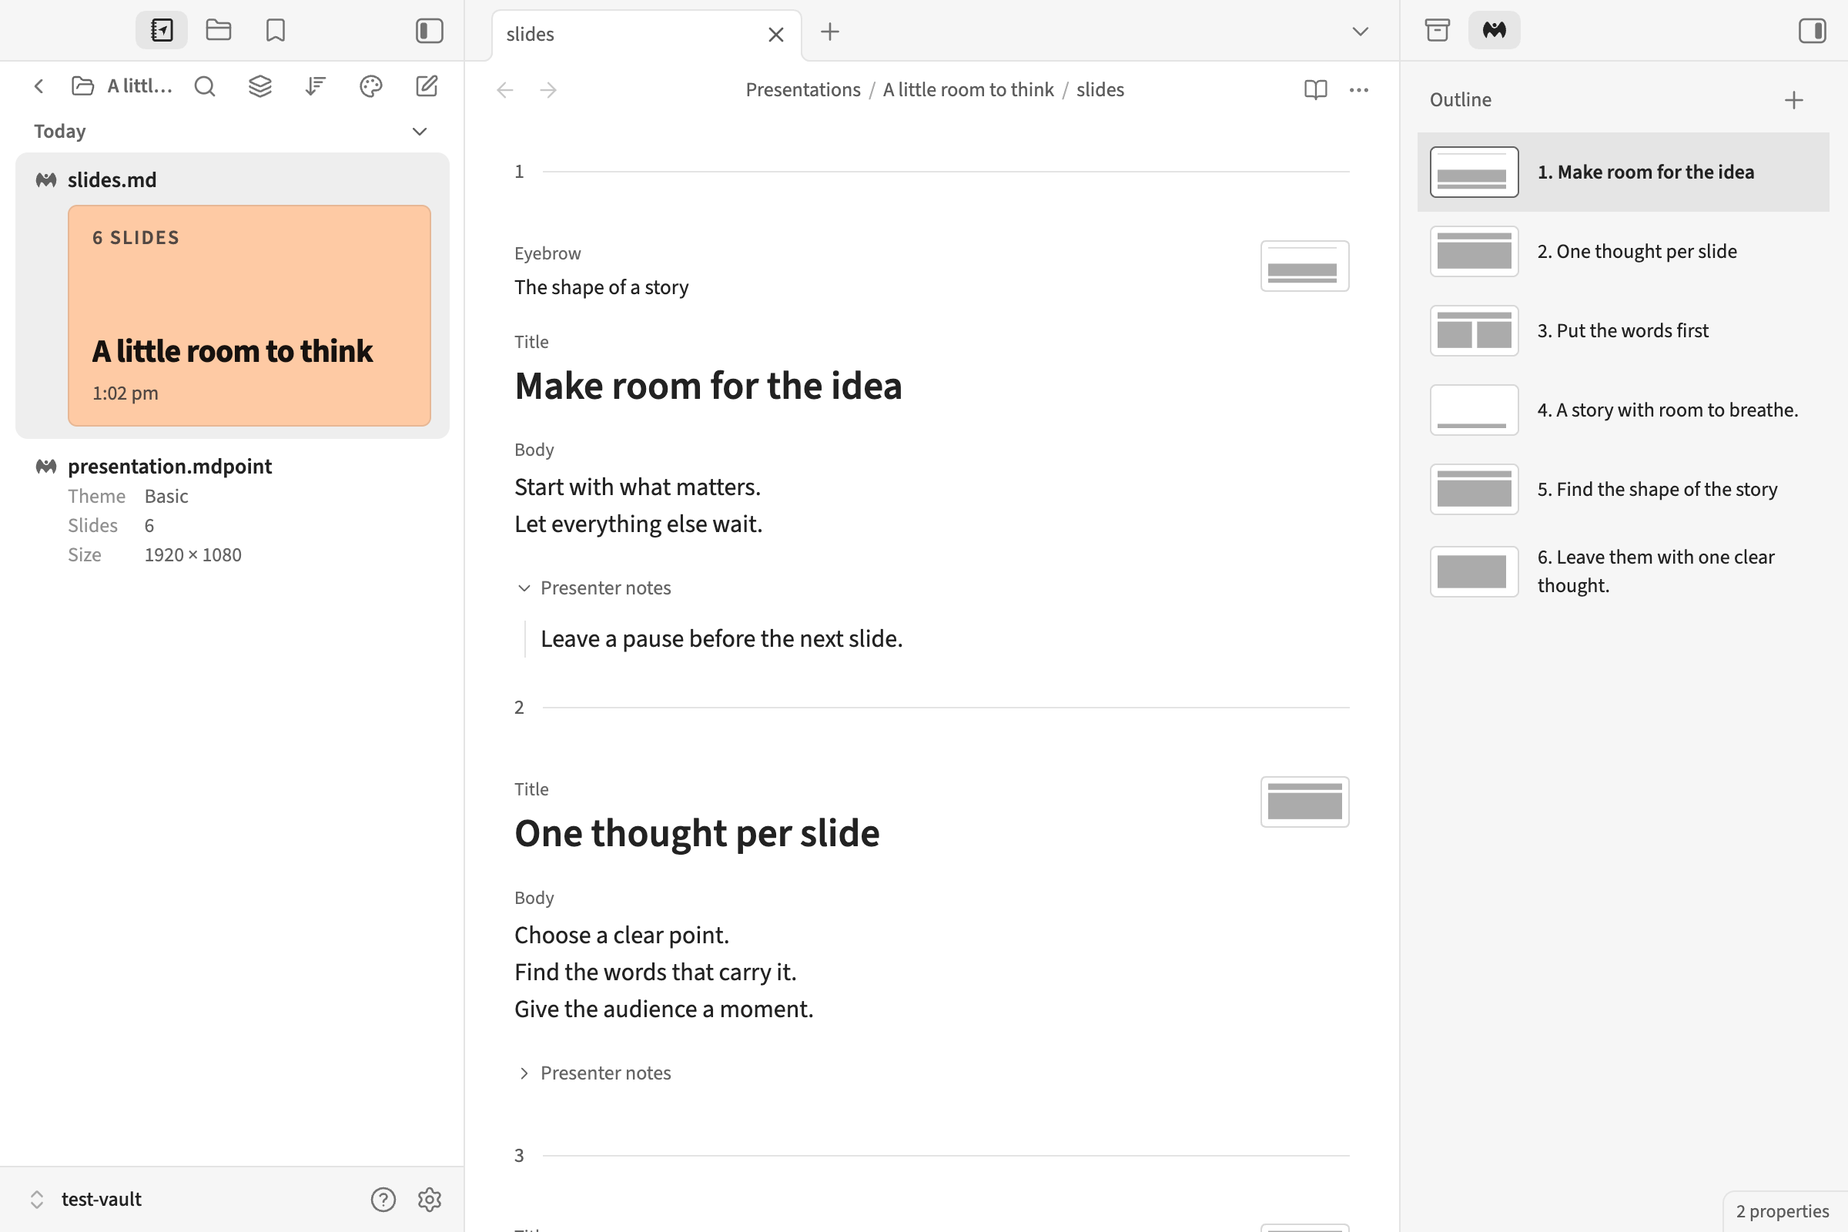
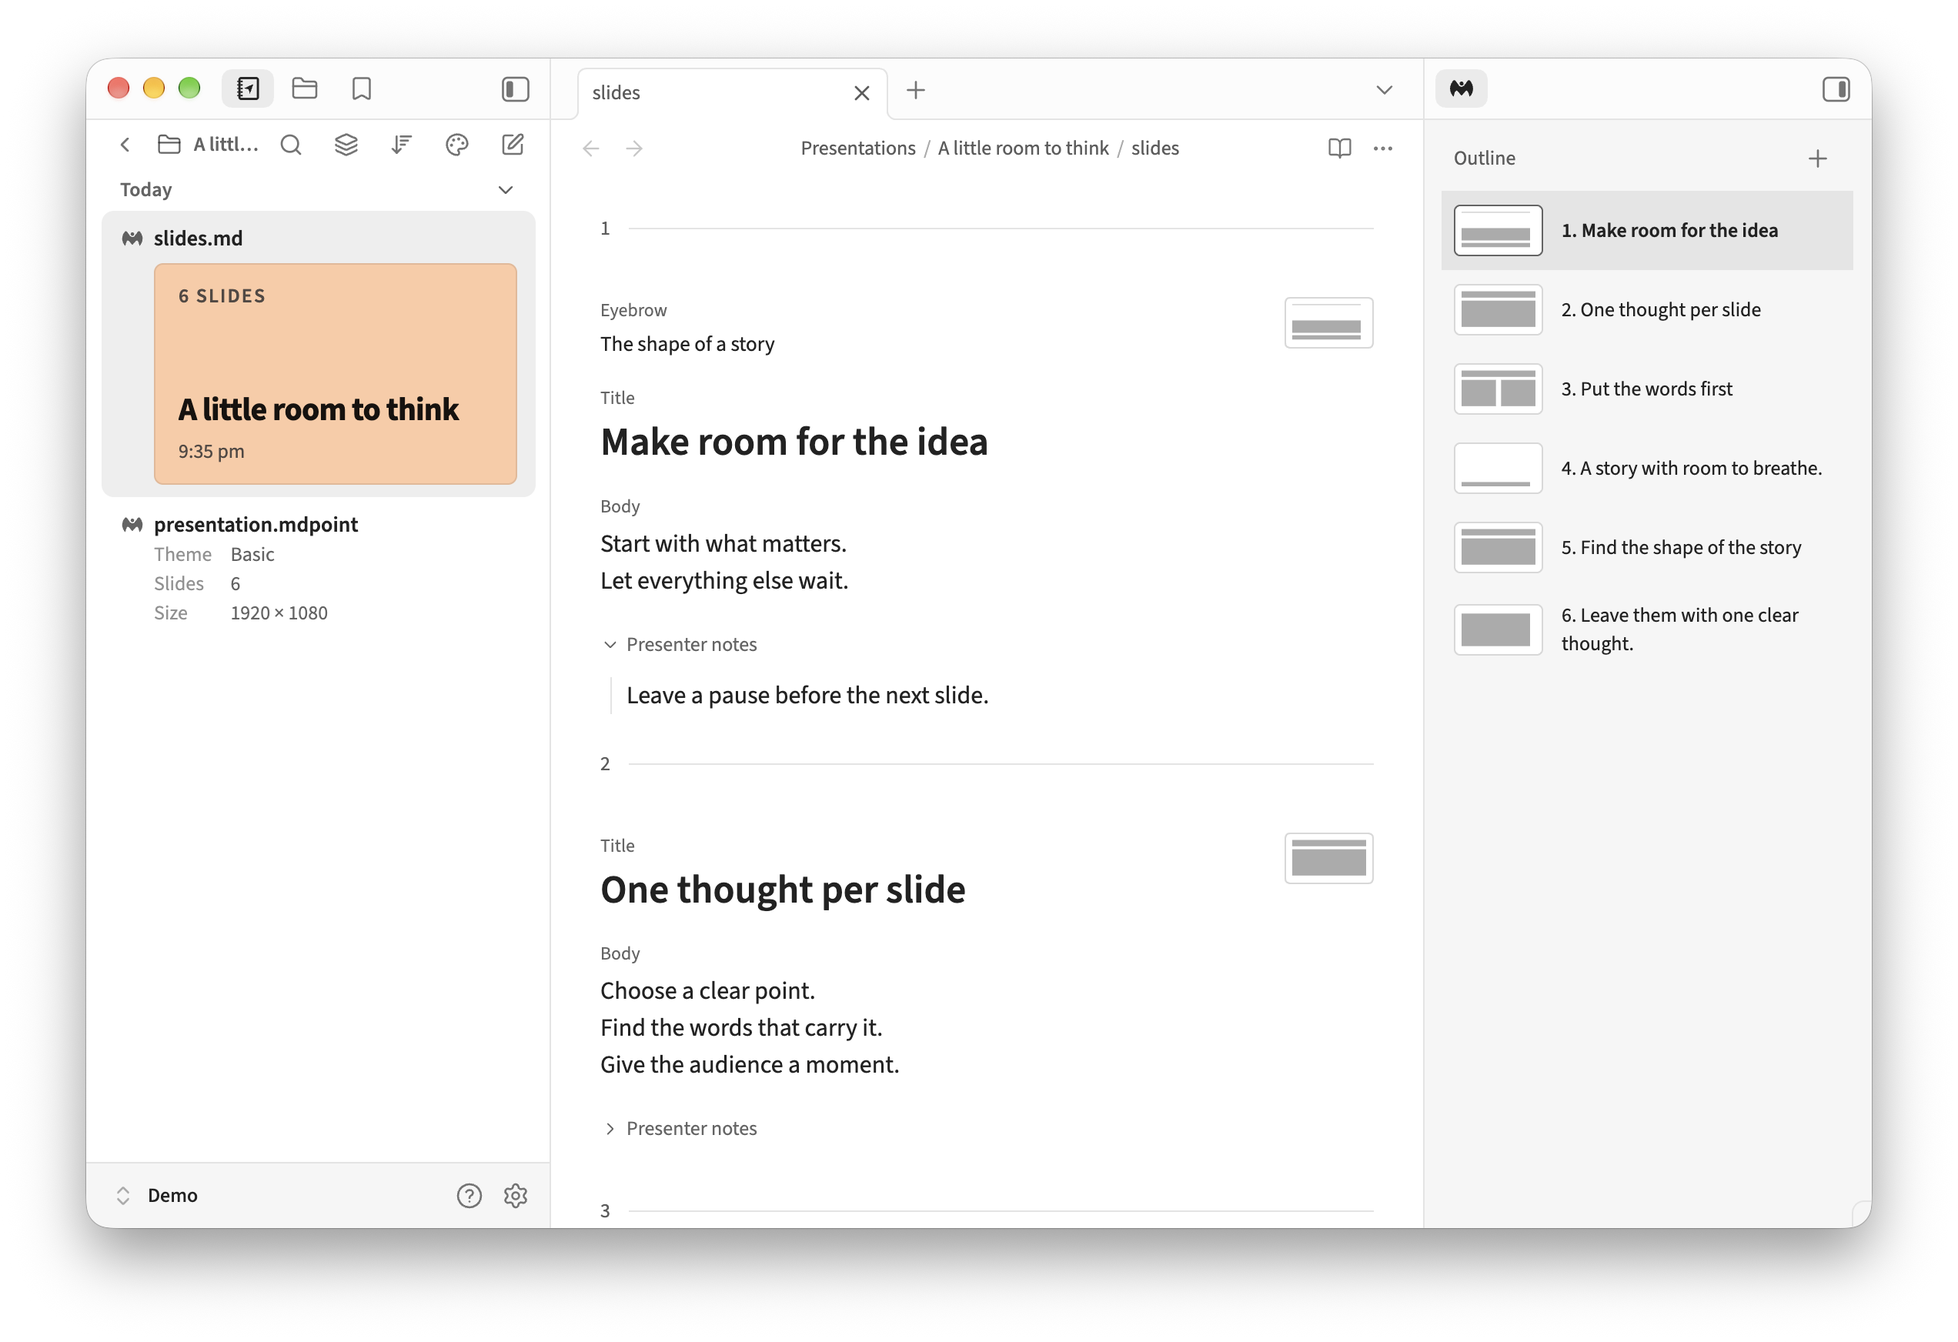
Rewrite the README and retake the screenshots as framed macOS windows
The README opens with what MarkdownPoint and its Obsidian plugin do together, then walks through installing, writing, the outline, new slides, the desktop app, settings and languages in numbered sections. Its images load from absolute URLs, so they show wherever the README is rendered. The six screenshots are native window captures from a demo vault, with the macOS frame and shadow.

diff --git a/README.md b/README.md
@@ -1,128 +1,104 @@
-# MarkdownPoint for Obsidian
+# ![MarkdownPoint for Obsidian](https://raw.githubusercontent.com/markdownpoint/markdownpoint-obsidian/main/images/continuous-draft-light.png)
 
-Write your slides where you keep your ideas.
+MarkdownPoint and its companion plugin for Obsidian are the best combination for modern presentations. Build the structure and write every word in Obsidian, then switch to the [MarkdownPoint](https://markdownpoint.com) desktop app for design, 3D, animation, rendering and much more.
 
-MarkdownPoint shows a presentation in Obsidian as one continuous draft. Write the words and presenter notes, and arrange the slides in an outline. Open the same presentation in [MarkdownPoint](https://markdownpoint.com) to design and present it.
+Your whole talk becomes **one continuous draft**: titles, text and presenter notes flow down the page like a note, with an outline of every slide beside it. Drag slides into a new order, add a slide in one keystroke, and copy slides between presentations. There’s nothing to import or export between the two: both apps edit the same files in your vault.
 
-![A continuous presentation draft with presenter notes and the slide outline](images/continuous-draft-light.png)
+Continuous draft. Drag-and-drop outline. Presenter notes. Layout shortcuts. 21 languages.
 
-Each presentation is a folder in your vault. Both apps edit the same files.
+<br/>
 
-The screenshots use the Minimal theme and Notebook Navigator. Both are optional.
+## 1 Installation
 
-## Install
+1. **Install Obsidian 1.13 or newer** on your desktop from [obsidian.md](https://obsidian.md/).
+2. **Turn on community plugins** under **Settings → Community plugins**.
+3. **Install MarkdownPoint**: select **Browse**, search for **MarkdownPoint**, then select **Install** and **Enable**.
+4. **Get the desktop app** from [markdownpoint.com](https://markdownpoint.com) to design, present and export your slides.
 
-MarkdownPoint requires **Obsidian 1.13 or newer** on desktop. You design, present and export in the MarkdownPoint desktop app.
+<br/>
 
-1. Open **Settings → Community plugins**. If community plugins are turned off, turn them on.
-2. Select **Browse** and search for **MarkdownPoint**.
-3. Select **Install**, then **Enable**.
+## 2 Your first presentation
 
-## Start a presentation
+Open the command palette and run **MarkdownPoint: New presentation**. Enter a name, choose a folder, and pick **Basic** or a theme from another presentation in your vault. Select **Create**, and the presentation opens with one empty slide and the cursor ready in its first text area.
 
-Open the command palette and run **MarkdownPoint: New presentation**.
-
-1. Enter a name and choose the folder to put the presentation in.
-2. Under **Theme**, choose **Basic** or a theme from another presentation in your vault.
-3. Select **Create** and start writing.
-
-The presentation opens in the current tab with one empty slide. The cursor starts in its first text area. The theme supplies the layouts. You write what each slide says.
-
-### Open an existing presentation
-
-Put the whole presentation folder in your vault, then open its `slides.md`. Keep `presentation.mdpoint`, `themes/` and any media folders beside it.
+Already have a presentation? Put its whole folder in your vault and open `slides.md`:
 
 ```text
 My presentation/
-├── slides.md
-├── presentation.mdpoint
+├── slides.md              your writing, notes and slide order
+├── presentation.mdpoint   the presentation data
 ├── themes/
 └── media/
 ```
 
-`slides.md` holds the writing, notes and slide order. `presentation.mdpoint` holds the presentation data. Move and sync the folder as a whole.
+Move and sync the folder as a whole, and both apps keep working on it.
 
-## Write without styling
+<br/>
 
-Each slide starts with a numbered divider. Its text areas follow in writing order. Each one takes its name from the layout: Title, Body, Eyebrow or a custom name.
+## 3 Write the whole talk in one draft
 
-An empty area shows a faint placeholder with its name. Click it to write. Once the area has text, its name appears as a small label above it. Placeholders and labels appear only in the editor and are never saved.
+Every slide starts with a numbered divider, followed by its text areas in writing order. Each area takes its name from the layout: Title, Body, Eyebrow or a name the theme gives it. An empty area shows its name as a faint placeholder. Start typing and the name moves up as a small label above your words. Placeholders and labels live only in the editor and are never saved.
 
-Write in **Live Preview** to see the continuous draft. Live Preview protects the slide dividers from ordinary edits. Move and delete slides from the outline or the right-click menu. **Source mode** shows the plain Markdown. Everything is editable there, slide dividers included.
+Write in **Live Preview** to see the draft. It protects the slide dividers from stray edits, so you rearrange slides in the outline or from the right-click menu. Switch to **Source mode** whenever you want the plain Markdown, dividers included.
 
-The draft hides the one blank line that separates text areas in `slides.md`. Extra blank lines are part of your text. They stay visible and carry over to MarkdownPoint.
+Blank lines are yours to use. The draft hides the single blank line that separates text areas, and any extra blank lines stay visible and carry over to MarkdownPoint.
 
 ### Presenter notes
 
-Click anywhere on the **Presenter notes** row to expand it. An empty note shows **Notes**. Write reminders, transitions or a full script. Collapse the row again to focus on the slide.
-
-Notes stay with their slide when you move, copy or delete it. Each device remembers which notes are expanded.
+Click the **Presenter notes** row under a slide to open it, and write reminders, transitions or a full script. Notes travel with their slide when you move, copy or delete it, and each device remembers which notes you keep open.
 
 ### Images beside the draft
 
-![An assigned image beside the writing area](images/image-previews-light.png)
+![A slide’s image preview beside the writing area](https://raw.githubusercontent.com/markdownpoint/markdownpoint-obsidian/main/images/image-previews-light.png)
 
-Up to five of a slide’s images appear below its thumbnail in the margin. The background comes first, then images in the layout’s image areas, then any other images on the slide.
+Up to five of a slide’s images appear under its thumbnail in the margin: the background first, then the layout’s image areas, then any other images on the slide. Add and change images in MarkdownPoint. To hide the previews, turn off **Settings → MarkdownPoint → Show images**.
 
-Add and change images in MarkdownPoint. To hide the previews, turn off **Settings → MarkdownPoint → Show images**.
+<br/>
 
-## Arrange slides in the outline
+## 4 Shape the story in the outline
 
-The **Outline** has its own sidebar tab, marked with the MarkdownPoint icon. The tab sits in the right sidebar by default. Obsidian’s own Outline and Notebook Navigator stay where they are.
+The **Outline** has its own sidebar tab, marked with the MarkdownPoint icon, and opens in the right sidebar. Each row shows a slide’s title and a small map of its layout. Section headings divide the list without taking a slide number, and skipped slides show a dash instead of a number.
 
-Each row shows a slide’s title and a small thumbnail of its structure. Filled areas mark where text and media go. MarkdownPoint shows the finished slide.
-
-Section headings divide the outline and don’t take a slide number. Skipped slides stay in the list. They show a dash in place of a number.
-
-### Select and rearrange
-
-- **Click** to select one slide and go to it.
+- **Click** a slide to select it and jump to it.
 - **Cmd-click** on Mac or **Ctrl-click** on Windows and Linux to add or remove a slide.
-- **Shift-click** to select a range.
-- **Shift+Up/Down** to extend the selection with the keyboard.
-- **Cmd/Ctrl+A** to select all slides while the outline has focus.
+- **Shift-click** to select a range, or **Shift+Up/Down** to extend it.
+- **Cmd/Ctrl+A** selects every slide while the outline has focus.
 
-Drag a selected row to move all selected slides. A line shows where they will land. Drop them on a section heading to place them at the start of that section.
-
-To move the selection one row at a time, press **Cmd+Up/Down** on Mac or **Ctrl+Up/Down** on Windows and Linux while the outline has focus. You can undo each move. In the editor, text-editing shortcuts work as usual.
+**Drag** the selection anywhere in the list. A line shows where it lands, and dropping on a section heading puts the slides at the start of that section. Prefer the keyboard? While the outline has focus, **Cmd+Up/Down** on Mac or **Ctrl+Up/Down** on Windows and Linux moves the selection one row at a time.
 
 ### Copy, cut and delete slides
 
-Right-click a slide in the outline or in the editor to choose **Cut slide**, **Copy slide**, **Paste slides** or **Delete slide**. Click a slide’s thumbnail in the editor margin to open the same menu.
+Right-click a slide in the outline or the editor for **Cut slide**, **Copy slide**, **Paste slides** and **Delete slide**. A slide’s thumbnail in the editor margin opens the same menu. In the outline, the menu acts on every selected slide, and **Cmd/Ctrl+C**, **X** and **V** copy, cut and paste whole slides. In the editor they stay ordinary text shortcuts. Pasted slides land below the slide whose menu you opened.
 
-In the outline, the menu acts on every selected slide. In the editor, it acts on the slide you clicked. Pasted slides go below the slide whose menu you opened.
+A copied slide brings its text, notes and presentation data with it. Paste it into another presentation in the same vault that uses the same theme, and its media comes along too. Between different themes or vaults, copy and paste the slides in the MarkdownPoint desktop app.
 
-A copied slide carries its text, notes and presentation data. In the outline, **Cmd/Ctrl+C**, **Cmd/Ctrl+X** and **Cmd/Ctrl+V** copy, cut and paste whole slides. In the editor, they stay ordinary text shortcuts.
+Obsidian’s **Undo** and **Redo** cover slide actions too, also while the outline has focus.
 
-You can paste slides into another presentation in the same vault when both use the same theme and theme artwork. The media the slides use is copied into the destination folder. Between different themes or vaults, copy and paste the slides in the MarkdownPoint desktop app.
+<br/>
 
-Obsidian’s **Undo** and **Redo** cover slide actions too. They also work while the outline has focus.
+## 5 Add a slide in one keystroke
 
-## Add a slide in a keystroke
+![The layout picker with number shortcuts](https://raw.githubusercontent.com/markdownpoint/markdownpoint-obsidian/main/images/layout-picker-light.png)
 
-![The layout picker with filled text areas and assigned number shortcuts](images/layout-picker-light.png)
+Click **+** above the outline or run **MarkdownPoint: New slide**, then choose a layout. The new slide goes below the current one.
 
-Click **+** above the outline or run **MarkdownPoint: New slide**. Choose a layout to insert a slide below the current one.
+Give your favorite layouts a number: right-click a layout in the picker and choose **Shortcut**, then a number from 1 to 9. Next time, open the picker and press that number. The number shows next to the layout’s name, and giving it to another layout moves it there. **None** removes it.
 
-Some layouts start with a number. To give a layout a number:
+<br/>
 
-1. Right-click a layout in the picker.
-2. Choose **Shortcut**, then a number from 1 to 9.
-3. In the picker, press that number to insert the layout.
+## 6 Design and present in MarkdownPoint
 
-The number appears below the layout’s thumbnail, next to its name. Giving the number to another layout moves it there. Choose **None** to remove a layout’s number.
+Run **MarkdownPoint: Open in MarkdownPoint** to save the presentation and open it in the desktop app. That’s where layout, images, 3D, animation and presenting happen. Come back to `slides.md` for another writing pass whenever you like, since both apps work on the same folder.
 
-## Continue in MarkdownPoint
+For the command to reach the app, your computer has to open `.mdpoint` files with MarkdownPoint.
 
-Run **MarkdownPoint: Open in MarkdownPoint** to save the presentation and open `presentation.mdpoint` in the desktop app.
+<br/>
 
-Work on layout, images, animation and presenting there. Return to `slides.md` for another writing pass. Keep using the same folder. For the command to reach the app, your computer must open `.mdpoint` files with MarkdownPoint.
+## 7 Settings and hotkeys
 
-## Settings and hotkeys
+**Settings → MarkdownPoint → Sidebar** puts the outline on the left or right. If you use Notebook Navigator, keep the outline on the right. Obsidian’s own controls show and hide the sidebar.
 
-Use **Settings → MarkdownPoint → Sidebar** to put the outline on the left or right. If you use Notebook Navigator, keep the outline on the right. Show and hide that sidebar with Obsidian’s own controls.
-
-The plugin sets no hotkeys. Assign your own under **Settings → Hotkeys**:
+The plugin sets no hotkeys, so assign your own under **Settings → Hotkeys**:
 
 | Command               | What it does                                       |
 | --------------------- | -------------------------------------------------- |
@@ -134,34 +110,36 @@ The plugin sets no hotkeys. Assign your own under **Settings → Hotkeys**:
 | Move slides down      | Move the outline selection down.                   |
 | Open in MarkdownPoint | Save and open the presentation in the desktop app. |
 
-The move commands work while the outline has focus. Tab and Obsidian’s tab-switching shortcuts work as usual.
+The move commands work while the outline has focus.
 
-The top of the settings shows a banner for the MarkdownPoint desktop app. Selecting it opens markdownpoint.com in your browser.
+After an update, MarkdownPoint shows its release notes once. Turn this off with **Show release notes after updating**, or read them any time with **View recent updates**. The banner at the top of the settings links to the MarkdownPoint desktop app.
 
-After an update, MarkdownPoint shows the release notes once. To stop this, turn off **Settings → MarkdownPoint → Show release notes after updating**. To read them at any time, select **View recent updates** in the same settings.
+Sidebar placement and open notes are stored on each device. Layout shortcuts, **Show images** and **Show release notes after updating** are plugin settings, and they sync when your vault syncs plugin settings.
 
-Sidebar placement and expanded notes are stored on each device. Layout shortcuts, **Show images** and **Show release notes after updating** are plugin settings. They sync when your vault syncs plugin settings. Obsidian manages sidebar visibility and width.
+<br/>
 
-## Languages
+## 8 Languages
 
-MarkdownPoint uses the language you choose in **Settings → General → Language**. It supports 21 languages, with a right-to-left layout for Arabic and Persian:
+MarkdownPoint follows **Settings → General → Language** in 21 languages, with a right-to-left layout for Arabic and Persian:
 
 English · العربية · Deutsch · Español · فارسی · Français · Bahasa Indonesia · Italiano · 日本語 · 한국어 · Nederlands · Polski · Português · Português do Brasil · Русский · ไทย · Türkçe · Українська · Tiếng Việt · 简体中文 · 繁體中文
 
-In any other language, the plugin appears in English. The language setting never changes the words in your presentation.
+Any other language shows the plugin in English. The words in your presentation never change with the language setting.
 
-## Questions and troubleshooting
+<br/>
 
-**Can I use Obsidian links and embeds?** They stay in the Markdown as you wrote them. The plugin doesn’t turn wikilinks, note embeds or other plugins’ output into slide content. For links that work outside Obsidian, use standard Markdown links. Add slide images in MarkdownPoint.
+## 9 Questions
 
-**The file looks like ordinary Markdown.** Open `slides.md` in **Live Preview** and check that its own `presentation.mdpoint` is in the same folder. An unrelated note named `slides.md` stays an ordinary note. An extra `.mdpoint` file or a conflicted copy in the folder makes the pair ambiguous. The plugin then leaves both files alone. If a notice says the presentation uses a newer MarkdownPoint format, update the plugin in **Settings → Community plugins**.
+**Can I use Obsidian links and embeds?** They stay in the Markdown as you wrote them, but wikilinks, note embeds and other plugins’ output don’t become slide content. Use standard Markdown links for links that work outside Obsidian, and add slide images in MarkdownPoint.
 
-**The outline still shows another presentation.** The outline keeps the last presentation you worked in, even while an ordinary note is active. Select the tab of the presentation you want.
+**My presentation looks like an ordinary note.** Open `slides.md` in **Live Preview** and check that its `presentation.mdpoint` sits in the same folder. An unrelated note named `slides.md` stays an ordinary note, and an extra `.mdpoint` file or a conflicted copy in the folder makes the plugin leave both files alone. If a notice says the presentation uses a newer MarkdownPoint format, update the plugin in **Settings → Community plugins**.
 
-**Some images are missing.** Keep the whole presentation folder together, media included. The editor shows at most five images per slide, and only files it can find. It doesn’t add images to `slides.md`.
+**The outline shows another presentation.** The outline keeps the last presentation you worked in, even while an ordinary note is open. Select the tab of the presentation you want.
 
-**A slide action asks me to try again.** The presentation changed before the action finished. Wait for the latest changes to appear, then repeat the action.
+**Some images are missing.** Keep the whole presentation folder together, media included. The editor shows up to five images per slide, and only files it can find.
 
-**Couldn’t save the presentation data.** Keep the vault open. Fix the file or storage problem, then select **Retry** in the notice. A recovery copy is kept on this device.
+**A slide action asks me to try again.** The presentation changed before the action finished. Wait for the latest changes to appear, then try again.
 
-For questions or a problem you can reproduce, [open an issue](https://github.com/markdownpoint/markdownpoint-obsidian/issues).
+**Couldn’t save the presentation data.** Keep the vault open, fix the file or storage problem, then select **Retry** in the notice. Until then, a recovery copy is kept on this device.
+
+Questions, or a problem you can reproduce? [Open an issue](https://github.com/markdownpoint/markdownpoint-obsidian/issues).
